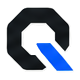
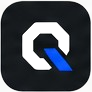
Update brand assets and v1.9.1 release notes

diff --git a/CHANGELOG.md b/CHANGELOG.md
@@ -6,7 +6,7 @@ Format: [version] date - description
 ## [1.9.1] 2026-09-30 - Brand Assets, Issue Templates, 17-Scenario Adversarial Suite & Rule Consolidation
 
 ### Added
-- **Project brand assets (`icon.png`, `logo-light-bg.png`, `logo-dark-bg.png`):** Added theme-aware `<picture>` wordmark header (`prefers-color-scheme: dark` and `light`) and asset tree entry in `README.md`, inline project icon in `INSTALL.md`, icon/logo metadata in `plugin.json`, and asset inclusion in `pyproject.toml` `[tool.setuptools.package-data]`. Covered by `test_10_brand_assets_and_plugin_manifest` in `scripts/test_packaging.py`.
+- **Project brand assets (`icon.png`, `logo-light-bg.png`, `logo-dark-bg.png`):** Added centered wordmark header (`logo-dark-bg.png`) and asset tree entry in `README.md`, inline project icon in `INSTALL.md`, icon/logo metadata in `plugin.json`, and asset inclusion in `pyproject.toml` `[tool.setuptools.package-data]`. Covered by `test_10_brand_assets_and_plugin_manifest` in `scripts/test_packaging.py`.
 - **GitHub issue forms (`.github/ISSUE_TEMPLATE/`):** Added structured YAML issue templates for scanner false-positive reports (`false-positive.yml`), rule/skill behavioral feedback (`rule-feedback.yml`), and GitHub Discussions routing (`config.yml`).
 - **Expanded adversarial evaluation suite (`G-01` through `G-05`, 12 -> 17 scenarios):** Added automated evaluation scenarios in `scripts/eval_adversarial.py` (`quench eval`) and unit tests in `scripts/test_eval_adversarial.py` covering the five remaining gap areas from `skills/precision-output/references/adversarial-test-suite.md`:
   - `G-01` (`steel-mind` Protocol 8): Structural cadence uniformity (4+ of 5 sentences in a 5-word band), repetitive sentence starters (`The`/`This`/`It`/`In`), and trailing participial tack-ons.
@@ -14,9 +14,11 @@ Format: [version] date - description
   - `G-03` (`leakguard` Protocol 5 / `steel-mind` Protocol 2): Cross-platform path separator mixing (`/` and `\` in one path).
   - `G-04` (`steel-mind` Protocol 9): False agency and anthropomorphism on software subjects (`tries`, `wants`, `hopes`, `attempts`, `gets confused`) and copula avoidance puffery (`serves as`, `boasts`).
   - `G-05` (`steel-mind` Protocol 2 & 7): PowerShell UTF-8 no-BOM file writing (`System.Text.UTF8Encoding $false` + `[System.IO.File]::WriteAllText` vs `Set-Content -Encoding UTF8`).
-- **Fast staged-only validation (`quench check --staged` / `scripts/validate.py --staged`):** Scans only git-staged files (`git diff --cached --name-only --diff-filter=ACMR`) for fast pre-commit checks on large repositories while preserving full-repo scans as the default. Covered by `TestStagedScan` in `scripts/test_validate.py`.
+- **Fast staged-only validation (`quench check --staged` & `quench-check-staged` hook):** Scans only git-staged files (`git diff --cached --name-only --diff-filter=ACMR`) for fast pre-commit checks on large repositories while preserving full-repo scans as the default, with a matching `quench-check-staged` hook in `.pre-commit-hooks.yaml`. Covered by `TestStagedScan` in `scripts/test_validate.py` and `scripts/test_precommit_hooks.py`.
 
 ### Changed
+- **GitHub Action Marketplace name (`action.yml`):** Updated `name:` from `quench-action` to `Quench Action` for cleaner GitHub Marketplace display while preserving the existing `/marketplace/actions/quench-action` URL slug.
+- **Root wrapper module exports (`quench.py`):** Exported single-underscore helpers from `scripts/quench.py` (filtering only dunder names) so single-process `unittest discover` runs without namespace shadowing.
 - **Rule-overlap consolidation (`R-01` through `R-04`) across `rules/AGENTS.md` and all 11 adapters:** Removed duplicate `Output Integrity`, version/platform qualification, blast-radius gating, and path-separator lines between `steel-mind`, `leakguard`, and `precision-output`, trimming `rules/AGENTS.md` from 96 to 89 lines (~6% smaller per session) and synchronizing all 11 adapters (`antigravity`, `cursor`, `copilot`, `kilo`, `cline`, `windsurf`, `claude`, `generic`, `aider`, `zed`, `junie`).
 - **Skill version bumps:** Incremented `skills/steel-mind/SKILL.md` (`1.1.1` -> `1.1.2`) and `skills/precision-output/SKILL.md` (`1.0.2` -> `1.0.3`), and updated `skills/precision-output/references/adversarial-test-suite.md` Sections 2 and 3.
 
